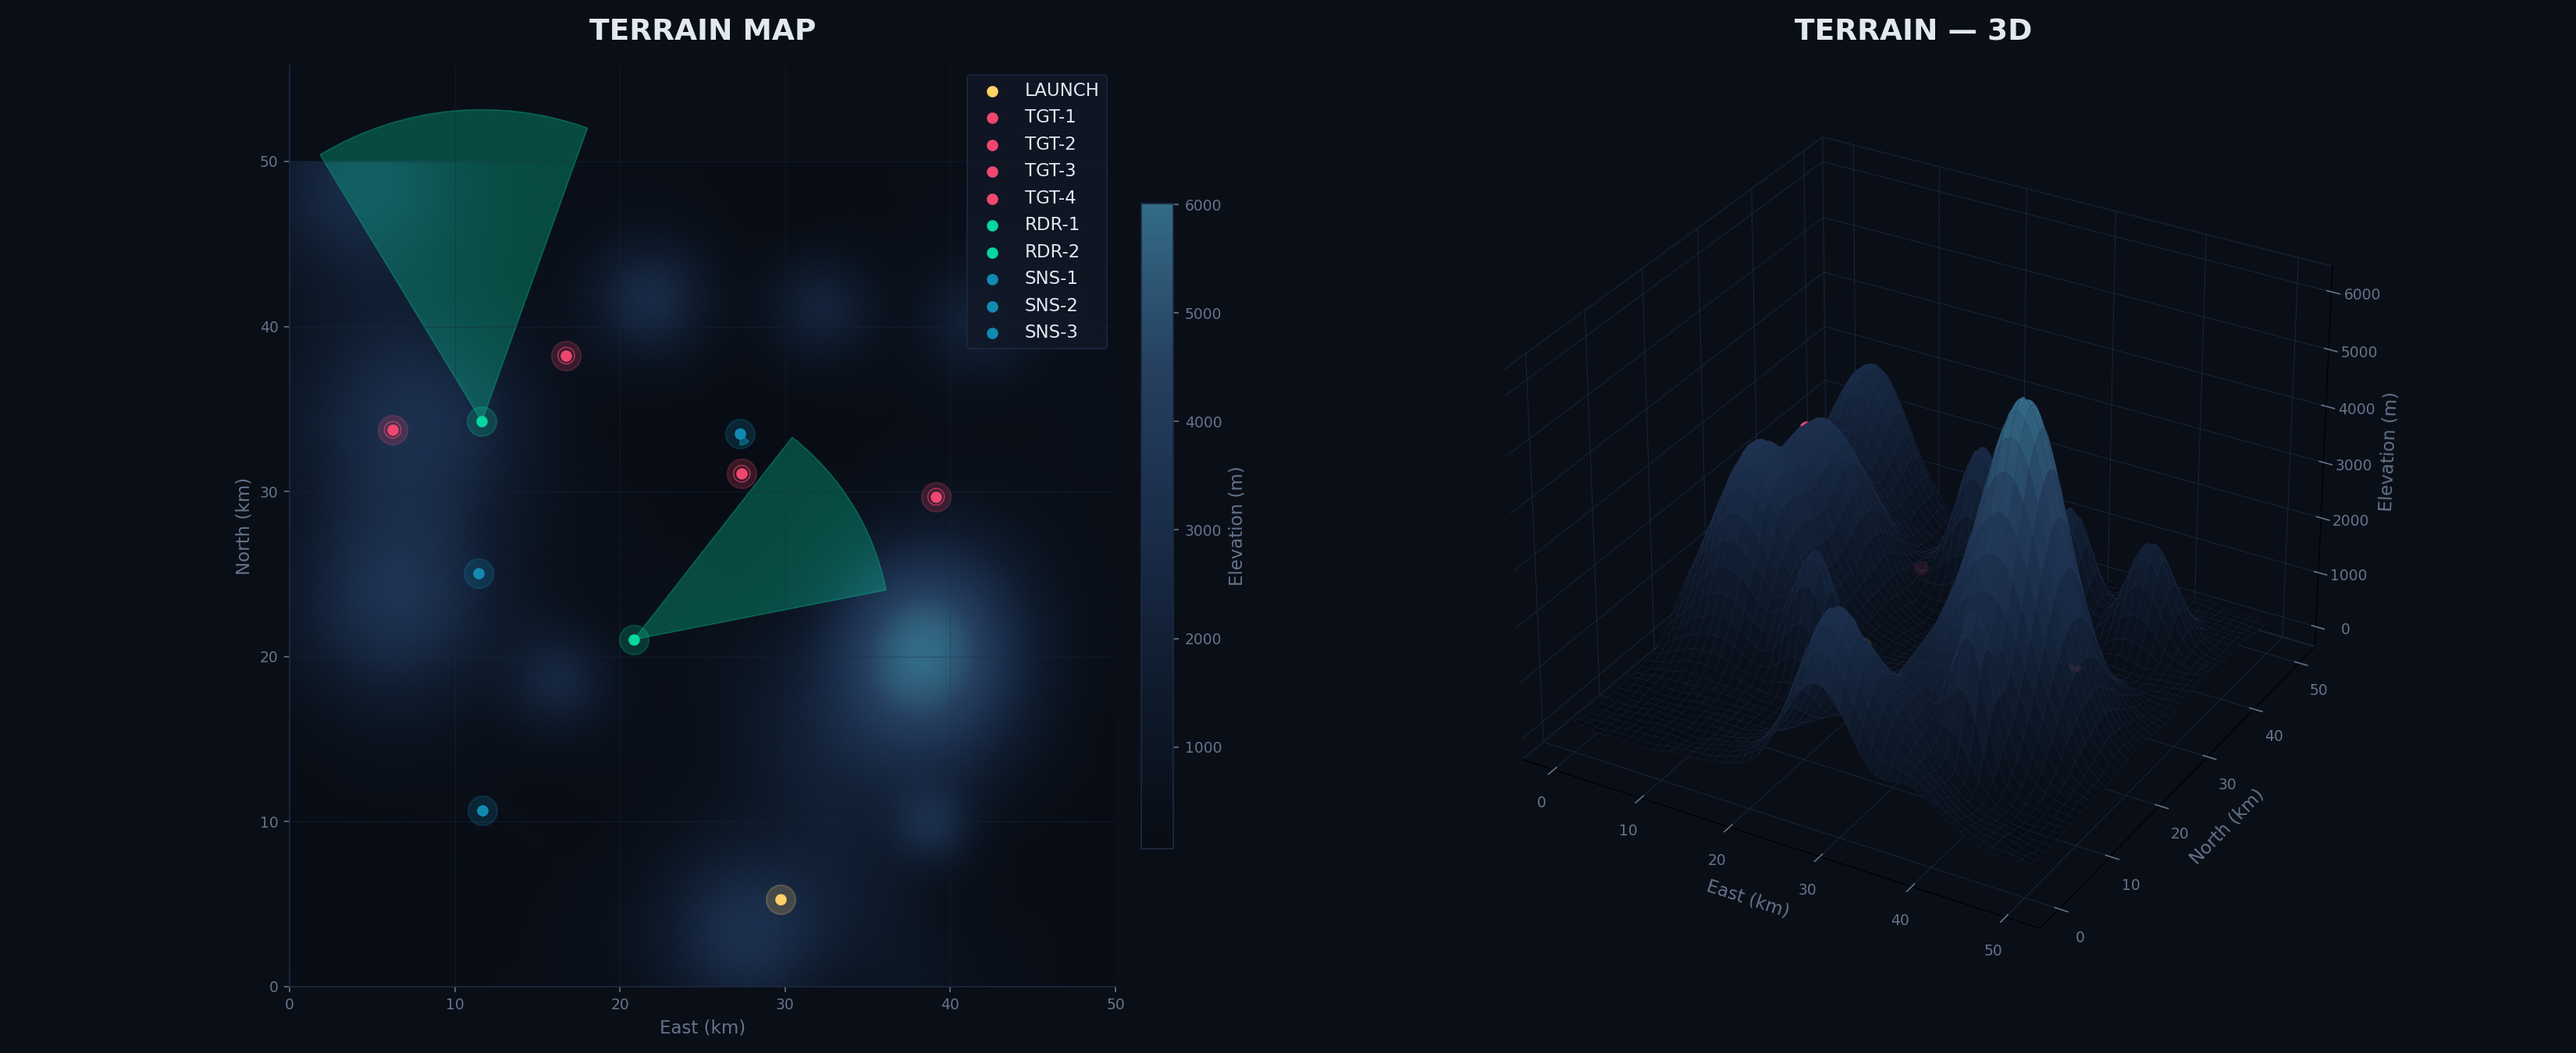
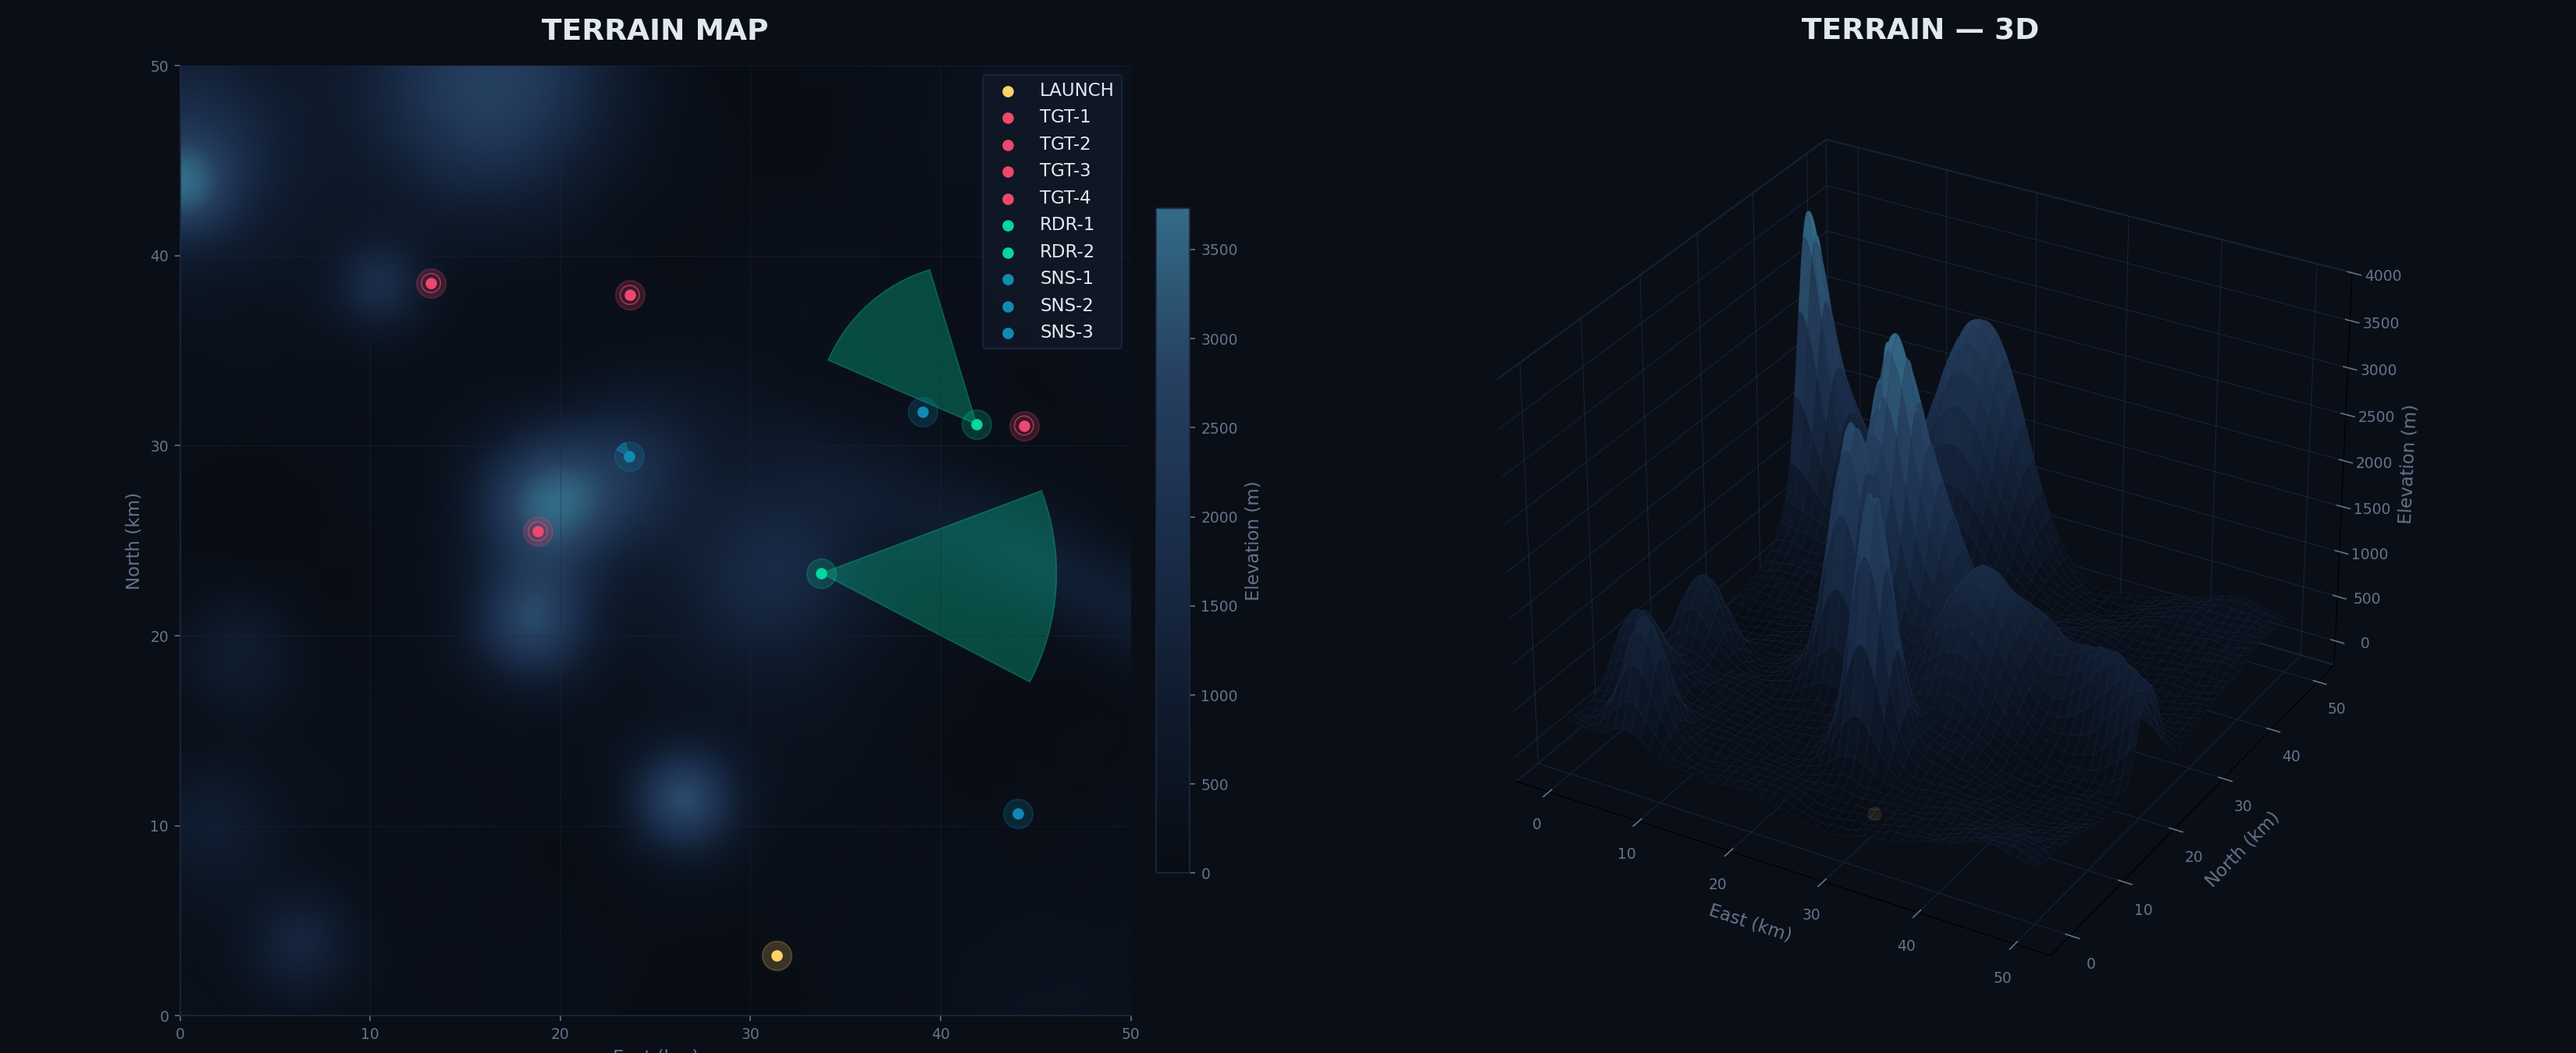
feat: updates

diff --git a/terrain.py b/terrain.py
@@ -7,6 +7,7 @@ and a launch site. All coordinates in meters (SI / ENU).
 
 import numpy as np
 from dataclasses import dataclass, field
+from typing import Dict, Optional, Tuple
 
 
 @dataclass
@@ -100,7 +101,7 @@ class TerrainConfig:
 class Terrain:
     """Generated terrain with elevation grid, targets, and launch site."""
 
-    def __init__(self, config: TerrainConfig | None = None, seed: int = 42):
+    def __init__(self, config: Optional[TerrainConfig] = None, seed: int = 3141):
         self.config = config or TerrainConfig()
         self.rng = np.random.default_rng(seed)
 
@@ -419,7 +420,7 @@ class DetectionFeed:
         self.columns: list[str] = [d.name for d in self.detectors]
 
     def query(self, t: float, missiles: list[tuple[float, float, float]]
-              ) -> dict[str, tuple[float, float, float] | None]:
+              ) -> Dict[str, Optional[Tuple[float, float, float]]]:
         """Return one snapshot of the feed at time *t*.
 
         Parameters
@@ -434,7 +435,7 @@ class DetectionFeed:
         dict mapping detector name → (x, y, z) of the first missile it
         detects, or None if it sees nothing.
         """
-        row: dict[str, tuple[float, float, float] | None] = {
+        row: Dict[str, Optional[Tuple[float, float, float]]] = {
             name: None for name in self.columns
         }
 
